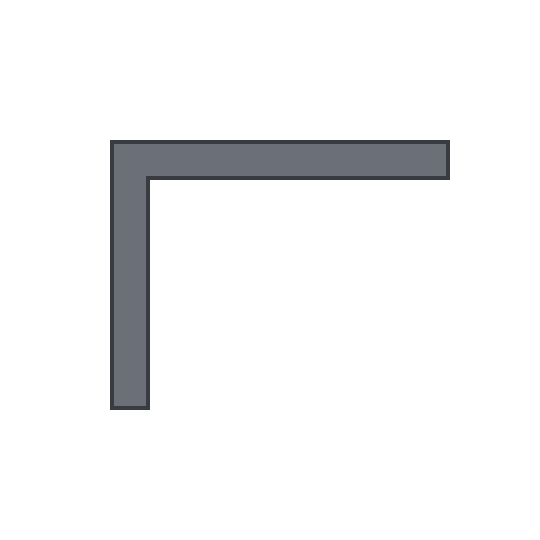
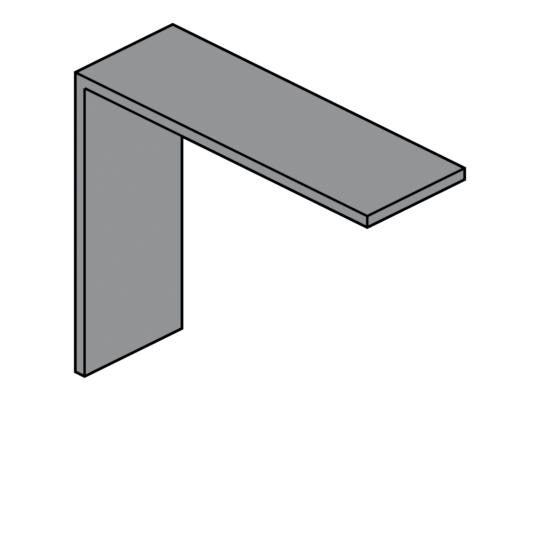
Steel brackets: placement options, stop short of the counter edge
A placed support always started 12 in. past the cabinet. Where a countertop lies over the cabinet, a flat or L-shaped support now runs out to a set distance from the counter's edge (3 in. unless changed), measured along the support, corners included; a top that overhangs less than that keeps the support inside the cabinet. Fit To Countertop on a support's menu does the same for one already placed.

Placement Options in the shape menu holds what a new support starts as: the counter-edge rule and its distance, the runs, the drop leg, the bar width and thickness. The tile's picture is a rendered bracket.

Changed region(s): [[0.1185, 0.0296, 0.8889, 0.7704]]

diff --git a/product_libraries/face_frame/steel_support.py b/product_libraries/face_frame/steel_support.py
@@ -19,13 +19,18 @@ A support is added from the cabinet's own menu, or placed from the part
 library: pick a shape, then click cabinets. Each click puts a support
 where it lands, out of the nearest face, or out of the corner when the
 click is close to one.
+
+What a new support starts as is kept on the scene (Placement Options in
+the shape menu): its bar, how far it runs, and whether it stops a set
+distance short of the edge of the countertop over the cabinet.
 """
 
 import math
 
 import bpy
 import bmesh
-from bpy.props import EnumProperty, FloatProperty, PointerProperty
+from bpy.props import (BoolProperty, EnumProperty, FloatProperty,
+                       PointerProperty)
 from bpy.types import Operator, PropertyGroup, Menu
 from mathutils import Vector
 
@@ -224,15 +229,29 @@ def _update_shape(self, context):
     _update(self, context)
 
 
+def defaults(scene=None):
+    """The scene's settings for a new support, or None before the
+    property is registered."""
+    scene = scene or bpy.context.scene
+    return getattr(scene, 'hb_steel_bracket_defaults', None)
+
+
+def _default(name, fallback, scene=None):
+    d = defaults(scene)
+    return float(getattr(d, name, fallback)) if d is not None else fallback
+
+
 def seed_values(shape, exits, width, depth):
     """Starting position and runs for a shape leaving a cabinet of this
     size through ``exits``."""
     along = face_length(exits, width, depth)
     out = {'x_position': along / 2.0}
+    run_out = _default('run_out', inch(12.0))
     if shape == 'FLAT':
-        out.update(run_in=inch(12.0), run_out=inch(12.0))
+        out.update(run_in=_default('run_in', inch(12.0)), run_out=run_out)
     elif shape == 'L':
-        out.update(run_in=0.0, run_out=inch(12.0), drop=inch(8.0))
+        out.update(run_in=0.0, run_out=run_out,
+                   drop=_default('drop', inch(8.0)))
     else:
         out.update(
             span=min(inch(20.5), max((along or inch(22.0)) - inch(1.5),
@@ -271,13 +290,103 @@ def placement_at(cab, point):
     return f0, (back if f0 in SIDE_EXITS else x)
 
 
+# ---- The countertop over the cabinet --------------------------------------------
+
+TOP_TAGS = ('IS_COUNTERTOP', 'IS_WOOD_TOP')
+# A top this far above or below the cabinet's own top still sits on it.
+TOP_Z_TOL = inch(3.0)
+
+
+def _top_edges(cab):
+    """Every edge of the tops lying on ``cab``, flattened to the
+    cabinet's XY: [((x, y), (x, y))]."""
+    height = cab.face_frame_cabinet.height
+    inv = cab.matrix_world.inverted()
+    scene = cab.users_scene[0] if cab.users_scene else bpy.context.scene
+    out = []
+    for obj in scene.objects:
+        if obj.type != 'MESH' or not any(obj.get(t) for t in TOP_TAGS):
+            continue
+        try:
+            if obj.hide_viewport or not obj.data.vertices:
+                continue
+            m = inv @ obj.matrix_world
+            co = [m @ v.co for v in obj.data.vertices]
+        except Exception:
+            continue
+        low = min(c.z for c in co)
+        if abs(low - height) > TOP_Z_TOL:
+            continue
+        for e in obj.data.edges:
+            a, b = co[e.vertices[0]], co[e.vertices[1]]
+            if abs(a.x - b.x) > 1e-7 or abs(a.y - b.y) > 1e-7:
+                out.append(((a.x, a.y), (b.x, b.y)))
+    return out
+
+
+def countertop_reach(cab, exits, position):
+    """How far the countertop over ``cab`` runs past the face a support
+    exits, measured along the support, or None with no top there."""
+    cp = cab.face_frame_cabinet
+    (ox, oy), (ux, uy), _along = exit_frame(exits, position, cp.width,
+                                            cp.depth)
+    # Start a little inside the cabinet so a top flush with the face
+    # still reads as over it.
+    back = inch(0.5)
+    px, py = ox - ux * back, oy - uy * back
+    best = None
+    for (ax, ay), (bx, by) in _top_edges(cab):
+        ex, ey = bx - ax, by - ay
+        den = ux * ey - uy * ex
+        if abs(den) < 1e-12:
+            continue
+        t = ((ax - px) * ey - (ay - py) * ex) / den
+        w = ((ax - px) * uy - (ay - py) * ux) / den
+        if t >= 0.0 and -1e-9 <= w <= 1.0 + 1e-9:
+            best = t if best is None else max(best, t)
+    return None if best is None else best - back
+
+
+def fitted_run_out(cab, exits, position, setback=None):
+    """The run past the cabinet that stops ``setback`` short of the
+    countertop's edge, or None when there is no top over the face. A
+    top that overhangs less than the setback gives 0: the support stays
+    inside the cabinet rather than showing past the counter."""
+    over = countertop_reach(cab, exits, position)
+    if over is None:
+        return None
+    if setback is None:
+        setback = _default('edge_setback', inch(3.0))
+    return max(over - setback, 0.0)
+
+
+def planned(cab, shape, point):
+    """(exits, values) for the support a click at ``point`` adds: where
+    it leaves the cabinet and what it starts as."""
+    cp = cab.face_frame_cabinet
+    exits, position = placement_at(cab, point)
+    values = seed_values(shape, exits, cp.width, cp.depth)
+    if exits not in CORNER_EXITS:
+        values['x_position'] = position
+    values['fitted'] = False
+    d = defaults()
+    if shape != 'U' and (d is None or d.fit_to_countertop):
+        run = fitted_run_out(cab, exits, values['x_position'])
+        if run is not None:
+            values['run_out'] = run
+            values['fitted'] = True
+    return exits, values
+
+
 def add_support_at(cab, shape, point):
     """Add a support to ``cab`` where ``point`` asks for it (see
     placement_at). Returns the object."""
-    exits, position = placement_at(cab, point)
+    exits, values = planned(cab, shape, point)
     obj = add_support(cab, shape, exits=exits)
-    if exits not in CORNER_EXITS:
-        obj.hb_steel_support['x_position'] = position
+    sp = obj.hb_steel_support
+    for key in ('x_position', 'run_in', 'run_out', 'drop', 'span'):
+        if key in values:
+            sp[key] = values[key]
     build(obj)
     return obj
 
@@ -367,6 +476,8 @@ def add_support(cab, shape='FLAT', exits='BACK'):
     sp = obj.hb_steel_support
     sp['shape'] = [i[0] for i in SHAPE_ITEMS].index(shape)
     sp['exits'] = [i[0] for i in EXIT_ITEMS].index(exits)
+    sp['bar_width'] = _default('bar_width', inch(4.0))
+    sp['thickness'] = _default('thickness', inch(0.375))
     seed(sp, cab.face_frame_cabinet)
     build(obj)
     return obj
@@ -410,13 +521,11 @@ def footprint(cab, shape, point):
     """World-space outline (line pairs) of the support a click at
     ``point`` would add, on the cabinet top."""
     cp = cab.face_frame_cabinet
-    exits, position = placement_at(cab, point)
-    v = seed_values(shape, exits, cp.width, cp.depth)
-    if exits not in CORNER_EXITS:
-        v['x_position'] = position
+    exits, v = planned(cab, shape, point)
     (ox, oy), (ux, uy), (ax, ay) = exit_frame(exits, v['x_position'],
                                               cp.width, cp.depth)
-    half = (v.get('span', inch(4.0)) if shape == 'U' else inch(4.0)) / 2.0
+    bar = _default('bar_width', inch(4.0))
+    half = (v.get('span', bar) if shape == 'U' else bar) / 2.0
     lo, hi = -v['run_in'], max(v['run_out'], inch(0.375))
     mw = cab.matrix_world
     corners = [mw @ Vector((ox + ux * u + ax * a, oy + uy * u + ay * a,
@@ -425,7 +534,7 @@ def footprint(cab, shape, point):
     lines = []
     for i in range(4):
         lines += [tuple(corners[i]), tuple(corners[(i + 1) % 4])]
-    return lines, exits
+    return lines, exits, v
 
 
 def _view_region(context, event):
@@ -528,6 +637,9 @@ class HOME_BUILDER_MT_face_frame_steel_support_shapes(Menu):
         for key, label, _desc in SHAPE_ITEMS:
             layout.operator("hb_face_frame.place_steel_support",
                             text=label).shape = key
+        layout.separator()
+        layout.operator("hb_face_frame.steel_bracket_options",
+                        text="Placement Options...", icon='PREFERENCES')
 
 
 class HB_FACE_FRAME_OT_place_steel_support(Operator):
@@ -587,10 +699,18 @@ class HB_FACE_FRAME_OT_place_steel_support(Operator):
         if cab is None:
             _place['lines'], _place['text'] = [], ""
         else:
-            lines, exits = footprint(cab, self.shape, point)
+            lines, exits, values = footprint(cab, self.shape, point)
             _place['lines'] = lines
-            _place['text'] = "Click to add: %s" % dict(
+            text = "Click to add: %s" % dict(
                 (i[0], i[1]) for i in EXIT_ITEMS)[exits]
+            if values.get('fitted'):
+                from ...units import unit_to_string
+                units_ = context.scene.unit_settings
+                text += ", %s past the cabinet (%s from the counter edge)" % (
+                    unit_to_string(units_, values['run_out']),
+                    unit_to_string(units_, _default('edge_setback',
+                                                    inch(3.0))))
+            _place['text'] = text
         _redraw_views(context)
         return cab, point
 
@@ -630,6 +750,109 @@ class HB_FACE_FRAME_OT_place_steel_support(Operator):
         return {'PASS_THROUGH'}
 
 
+class Face_Frame_Steel_Bracket_Defaults(PropertyGroup):
+    """What a newly placed support starts as, kept on the scene."""
+    fit_to_countertop: BoolProperty(
+        name="Stop Short Of The Counter Edge",
+        description="Where a countertop lies over the cabinet, a flat or "
+                    "L-shaped support runs out to the set distance from "
+                    "its edge. Off, or with no countertop, it runs Past "
+                    "Cabinet",
+        default=True)  # type: ignore
+    edge_setback: FloatProperty(
+        name="From Counter Edge",
+        description="How far short of the countertop's edge a support "
+                    "stops",
+        default=inch(3.0), min=0.0, unit='LENGTH',
+        precision=4)  # type: ignore
+    run_in: FloatProperty(
+        name="Into Cabinet",
+        description="How far a flat bar runs into the cabinet",
+        default=inch(12.0), min=0.0, unit='LENGTH',
+        precision=4)  # type: ignore
+    run_out: FloatProperty(
+        name="Past Cabinet",
+        description="How far a support runs past the cabinet when it is "
+                    "not stopped short of a counter edge",
+        default=inch(12.0), min=0.0, unit='LENGTH',
+        precision=4)  # type: ignore
+    drop: FloatProperty(
+        name="Drop Leg",
+        description="L-shaped: length of the leg turned down the face",
+        default=inch(8.0), min=0.0, unit='LENGTH',
+        precision=4)  # type: ignore
+    bar_width: FloatProperty(
+        name="Bar Width", default=inch(4.0), min=inch(0.25),
+        unit='LENGTH', precision=4)  # type: ignore
+    thickness: FloatProperty(
+        name="Thickness", default=inch(0.375), min=inch(0.0625),
+        unit='LENGTH', precision=4)  # type: ignore
+
+
+class HB_FACE_FRAME_OT_steel_bracket_options(Operator):
+    """What a newly placed steel support starts as"""
+    bl_idname = "hb_face_frame.steel_bracket_options"
+    bl_label = "Steel Bracket Placement Options"
+    bl_options = {'UNDO'}
+
+    def invoke(self, context, event):
+        return context.window_manager.invoke_props_dialog(self, width=340)
+
+    def draw(self, context):
+        d = defaults(context.scene)
+        col = self.layout.column(align=True)
+        col.use_property_split = True
+        col.use_property_decorate = False
+        col.prop(d, 'fit_to_countertop')
+        sub = col.column(align=True)
+        sub.active = d.fit_to_countertop
+        sub.prop(d, 'edge_setback')
+        col.separator()
+        col.prop(d, 'run_in')
+        col.prop(d, 'run_out')
+        col.prop(d, 'drop')
+        col.separator()
+        col.prop(d, 'bar_width')
+        col.prop(d, 'thickness')
+
+    def execute(self, context):
+        return {'FINISHED'}
+
+
+class HB_FACE_FRAME_OT_steel_support_fit_countertop(Operator):
+    """Run this support out to the set distance from the edge of the countertop over its cabinet"""
+    bl_idname = "hb_face_frame.steel_support_fit_countertop"
+    bl_label = "Fit To Countertop"
+    bl_options = {'REGISTER', 'UNDO'}
+
+    @classmethod
+    def poll(cls, context):
+        obj = context.active_object
+        return obj is not None and bool(obj.get(STEEL_SUPPORT_TAG))
+
+    def execute(self, context):
+        done = 0
+        picked = [o for o in context.selected_objects
+                  if o.get(STEEL_SUPPORT_TAG)]
+        if context.active_object not in picked:
+            picked.append(context.active_object)
+        for obj in picked:
+            cab = obj.parent
+            sp = obj.hb_steel_support
+            if cab is None or sp.shape == 'U':
+                continue
+            run = fitted_run_out(cab, sp.exits, sp.x_position)
+            if run is None:
+                continue
+            sp.run_out = run
+            done += 1
+        if not done:
+            self.report({'WARNING'},
+                        "No countertop overhangs the cabinet there")
+            return {'CANCELLED'}
+        return {'FINISHED'}
+
+
 class HB_FACE_FRAME_OT_steel_support_prompts(Operator):
     """Steel support options"""
     bl_idname = "hb_face_frame.steel_support_prompts"
@@ -659,6 +882,8 @@ class HOME_BUILDER_MT_face_frame_steel_support_commands(Menu):
         layout = self.layout
         layout.operator("hb_face_frame.steel_support_prompts",
                         text="Steel Support Options...", icon='WINDOW')
+        layout.operator("hb_face_frame.steel_support_fit_countertop",
+                        icon='SNAP_EDGE')
         layout.separator()
         layout.operator("hb_general.delete", text="Delete Steel Support",
                         icon='X')
@@ -666,6 +891,9 @@ class HOME_BUILDER_MT_face_frame_steel_support_commands(Menu):
 
 classes = (
     Face_Frame_Steel_Support_Props,
+    Face_Frame_Steel_Bracket_Defaults,
+    HB_FACE_FRAME_OT_steel_bracket_options,
+    HB_FACE_FRAME_OT_steel_support_fit_countertop,
     HB_FACE_FRAME_OT_add_steel_support,
     HB_FACE_FRAME_OT_steel_support_prompts,
     HOME_BUILDER_MT_face_frame_steel_support_commands,
@@ -679,11 +907,15 @@ def register():
         bpy.utils.register_class(cls)
     bpy.types.Object.hb_steel_support = PointerProperty(
         type=Face_Frame_Steel_Support_Props)
+    bpy.types.Scene.hb_steel_bracket_defaults = PointerProperty(
+        type=Face_Frame_Steel_Bracket_Defaults)
 
 
 def unregister():
     _remove_place_handles()
     if hasattr(bpy.types.Object, 'hb_steel_support'):
         del bpy.types.Object.hb_steel_support
+    if hasattr(bpy.types.Scene, 'hb_steel_bracket_defaults'):
+        del bpy.types.Scene.hb_steel_bracket_defaults
     for cls in reversed(classes):
         bpy.utils.unregister_class(cls)
